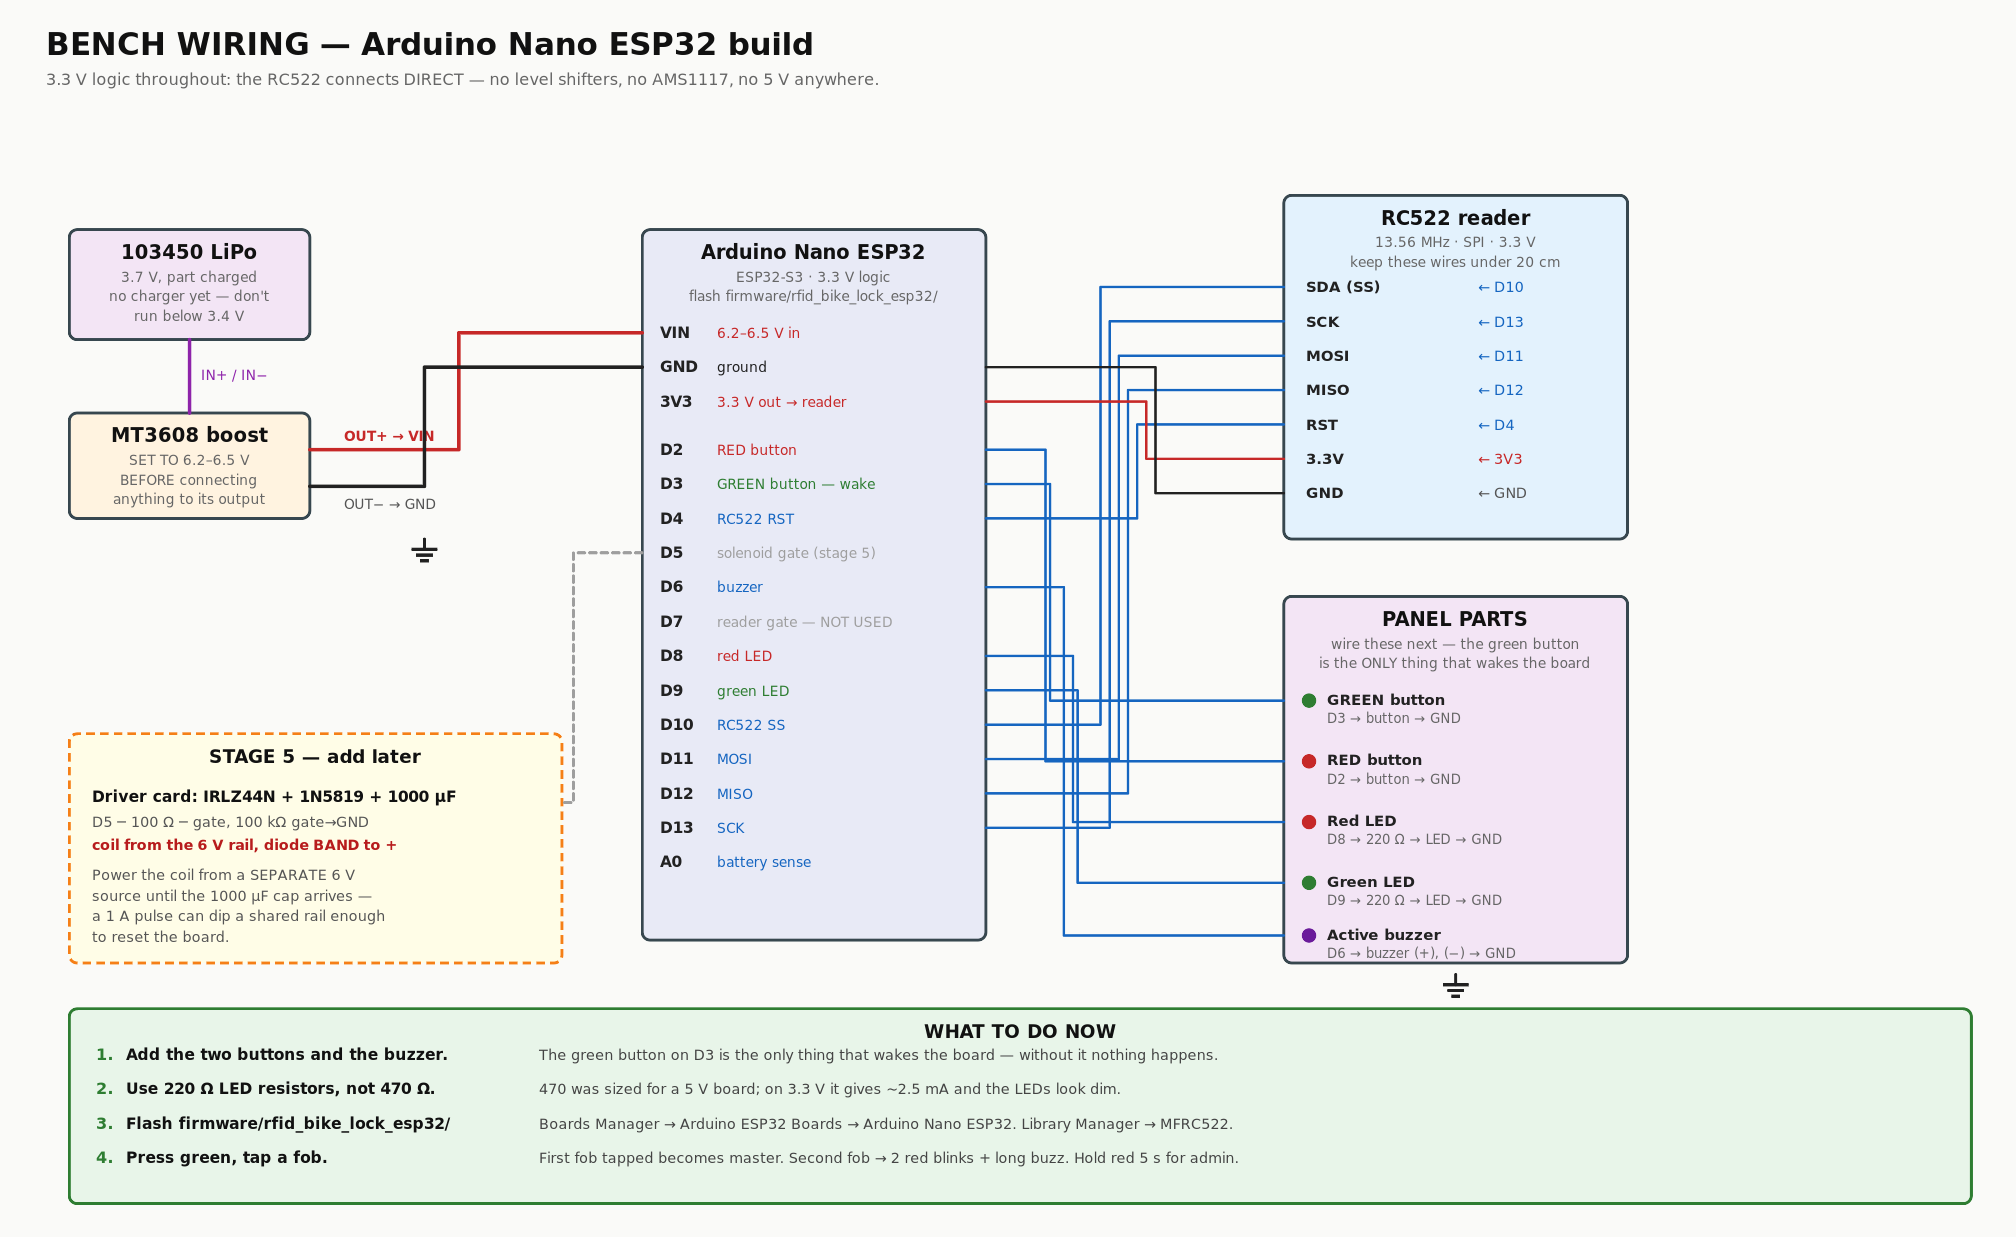
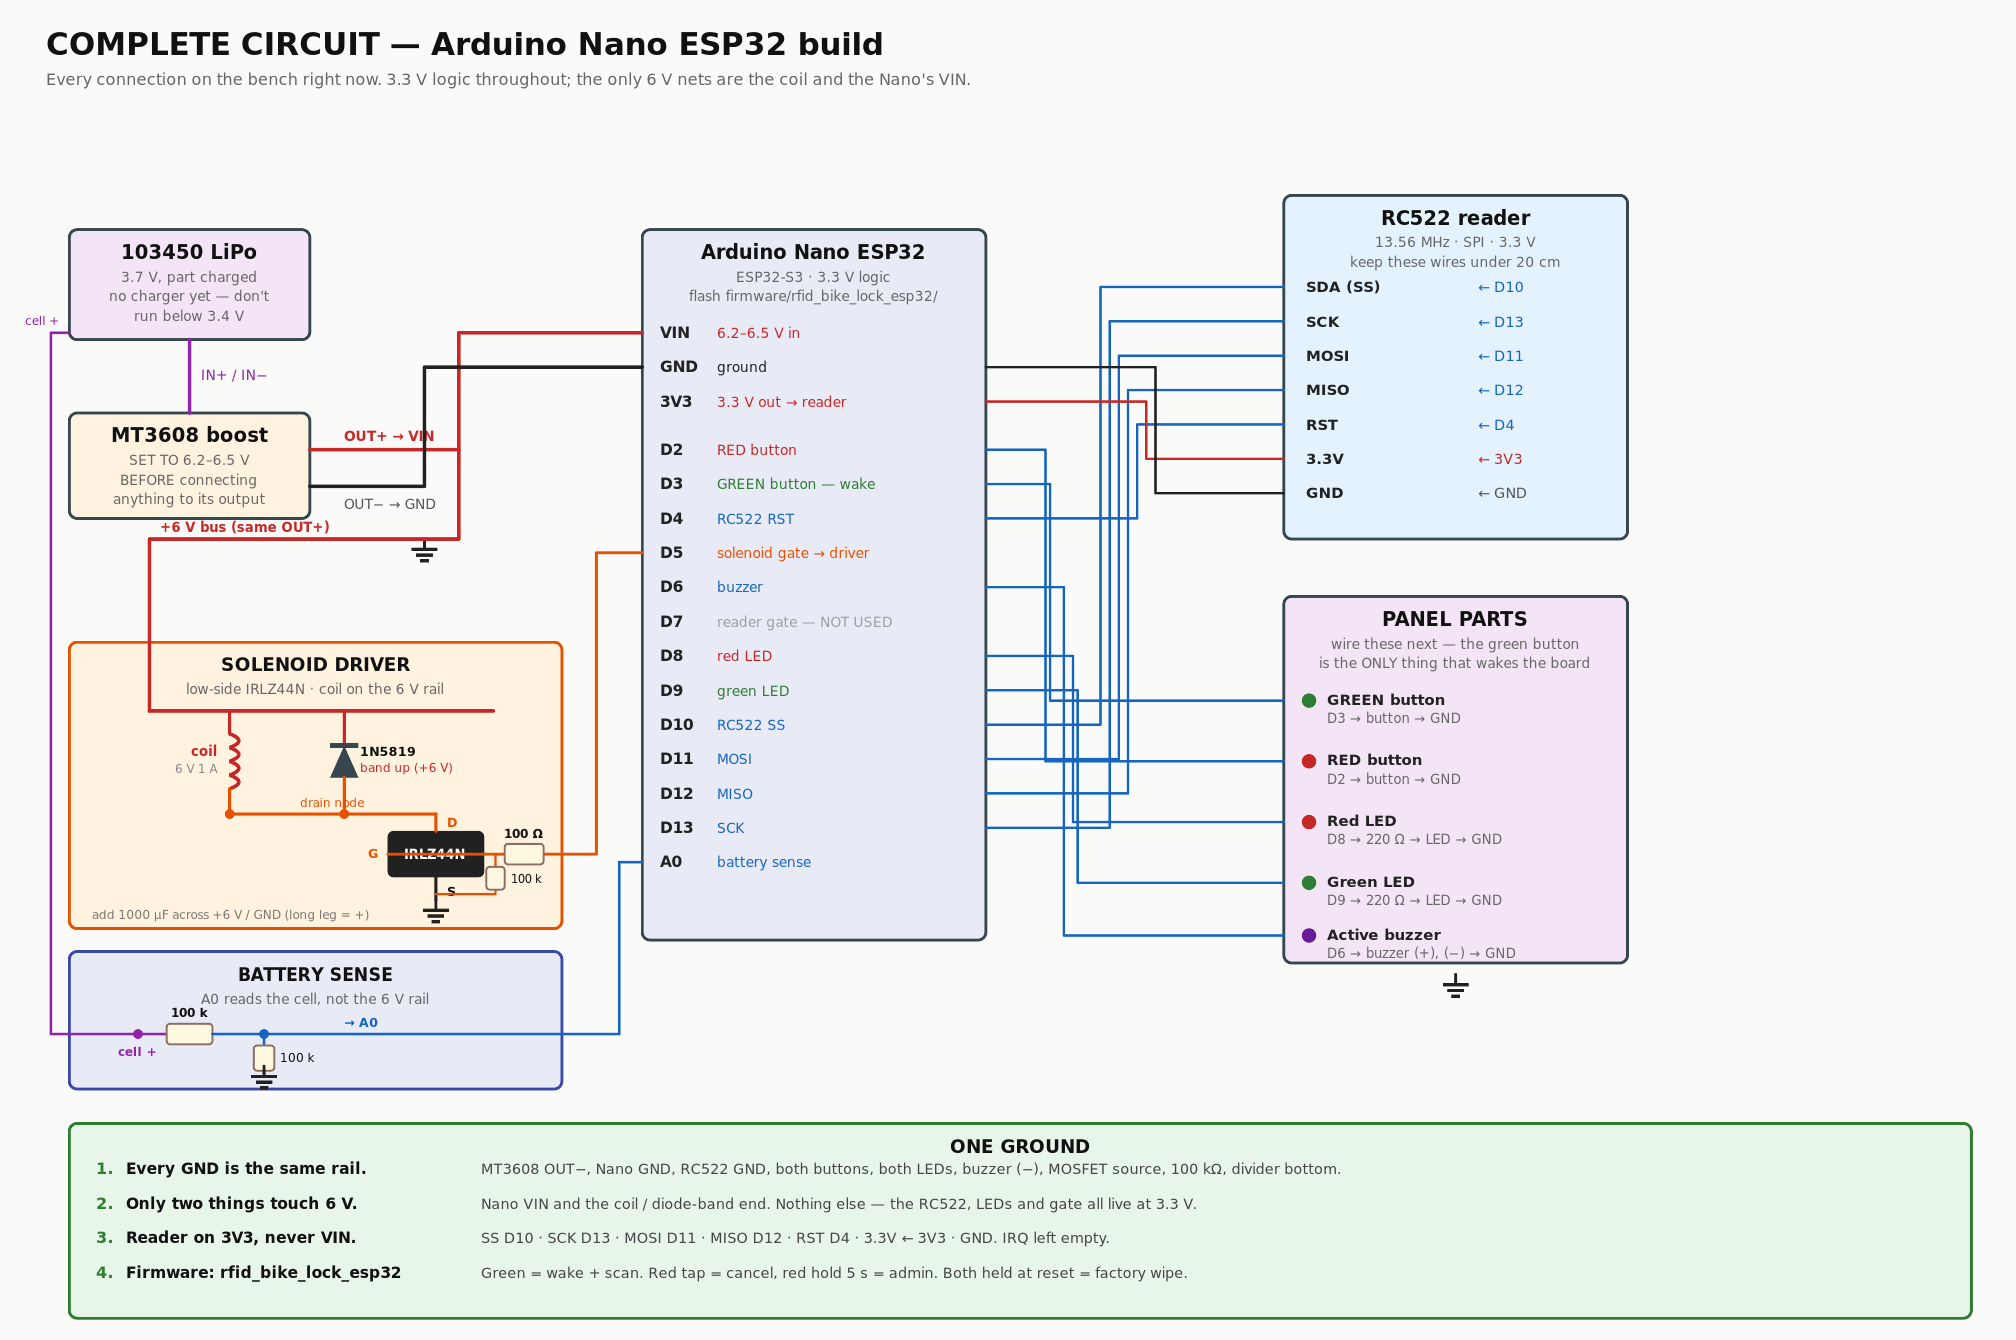
Update bench wiring to the complete current circuit
Solenoid driver drawn as fitted, battery-sense divider on A0 added,
notes replaced with the single-ground checklist.

Claude-Session: https://claude.ai/code/session_01Rpp78CApKpVmXNegMaNBox

diff --git a/cad/bench_wiring_esp32.py b/cad/bench_wiring_esp32.py
@@ -4,7 +4,7 @@ The bench wiring for the Arduino Nano ESP32 build: exactly what to connect now, 
 gets added at stage 5. 3.3 V logic throughout, so the RC522 goes on direct.
 """
 import os
-W, H = 1760, 1080
+W, H = 1760, 1170
 BG, RAIL, CELL, BLK, BLU, GRN, RED2, DIM = "#FAFAF8", "#C62828", "#8E24AA", "#212121", "#1565C0", "#2E7D32", "#C62828", "#9E9E9E"
 out = []; A = out.append
 
@@ -31,8 +31,8 @@ def gnd(x, y):
 
 A(f'<svg xmlns="http://www.w3.org/2000/svg" width="{W}" height="{H}" viewBox="0 0 {W} {H}">')
 A(f'<rect width="{W}" height="{H}" fill="{BG}"/>')
-txt(40, 48, "BENCH WIRING — Arduino Nano ESP32 build", 27, "#111", weight="bold")
-txt(40, 74, "3.3 V logic throughout: the RC522 connects DIRECT — no level shifters, no AMS1117, no 5 V anywhere.", 14, "#666")
+txt(40, 48, "COMPLETE CIRCUIT — Arduino Nano ESP32 build", 27, "#111", weight="bold")
+txt(40, 74, "Every connection on the bench right now. 3.3 V logic throughout; the only 6 V nets are the coil and the Nano's VIN.", 14, "#666")
 
 # ---------------- Nano ----------------
 NX, NY, NW, NH = 560, 200, 300, 620
@@ -41,7 +41,7 @@ PIN = {}
 rows = [("VIN", "6.2–6.5 V in", RAIL), ("GND", "ground", BLK), ("3V3", "3.3 V out → reader", RAIL),
         ("", "", None),
         ("D2", "RED button", RED2), ("D3", "GREEN button — wake", GRN), ("D4", "RC522 RST", BLU),
-        ("D5", "solenoid gate (stage 5)", DIM), ("D6", "buzzer", BLU), ("D7", "reader gate — NOT USED", DIM),
+        ("D5", "solenoid gate → driver", "#E65100"), ("D6", "buzzer", BLU), ("D7", "reader gate — NOT USED", DIM),
         ("D8", "red LED", RED2), ("D9", "green LED", GRN), ("D10", "RC522 SS", BLU),
         ("D11", "MOSI", BLU), ("D12", "MISO", BLU), ("D13", "SCK", BLU), ("A0", "battery sense", BLU)]
 y = NY + 90
@@ -91,29 +91,82 @@ for nm, yy in (("D3", 611), ("D2", 664), ("D8", 717), ("D9", 770), ("D6", 816)):
     wire([(NX + NW, PIN[nm]), (900 + list(PIN).index(nm) * 4, PIN[nm]), (900 + list(PIN).index(nm) * 4, yy), (1120, yy)], BLU, 2.0)
 gnd(1270, 850)
 
-# ---------------- stage 5 (later) ----------------
-box(60, 640, 430, 200, "STAGE 5 — add later", "", "#FFFDE7", "#F57F17", 16, dash="7 5")
-txt(80, 700, "Driver card: IRLZ44N + 1N5819 + 1000 µF", 13.5, "#111", weight="bold")
-txt(80, 722, "D5 ─ 100 Ω ─ gate, 100 kΩ gate→GND", 12.5, "#555")
-txt(80, 742, "coil from the 6 V rail, diode BAND to +", 12.5, "#B71C1C", weight="bold")
-txt(80, 768, "Power the coil from a SEPARATE 6 V", 12.5, "#555")
-txt(80, 786, "source until the 1000 µF cap arrives —", 12.5, "#555")
-txt(80, 804, "a 1 A pulse can dip a shared rail enough", 12.5, "#555")
-txt(80, 822, "to reset the board.", 12.5, "#555")
-wire([(NX, PIN["D5"]), (500, PIN["D5"]), (500, 700), (490, 700)], DIM, 2.2, dash="6 4")
+# ---------------- driver stage ----------------
+ORG = "#E65100"
+DY = 560
+box(60, DY, 430, 250, "SOLENOID DRIVER", "low-side IRLZ44N · coil on the 6 V rail", "#FFF3E0", ORG, 16)
+# +6V bus from MT3608 OUT+
+wire([(400, 392), (400, 470), (130, 470), (130, DY + 60)], RAIL, 3)
+txt(140, 464, "+6 V bus (same OUT+)", 11.5, RAIL, weight="bold")
+wire([(130, DY + 60), (430, DY + 60)], RAIL, 3)
+# coil
+wire([(200, DY + 60), (200, DY + 80)], RAIL, 2.6)
+for k in range(4):
+    A(f'<path d="M 200 {DY+80+k*12} q 16 6 0 12" fill="none" stroke="{RAIL}" stroke-width="2.6"/>')
+wire([(200, DY + 128), (200, DY + 150)], ORG, 2.6)
+txt(190, DY + 100, "coil", 11.5, RAIL, "end", "bold")
+txt(190, DY + 115, "6 V 1 A", 10.5, "#888", "end")
+# diode
+wire([(300, DY + 60), (300, DY + 90)], RAIL, 2.6)
+A(f'<line x1="288" y1="{DY+90}" x2="312" y2="{DY+90}" stroke="#37474F" stroke-width="4"/>')
+A(f'<path d="M 288 {DY+118} L 312 {DY+118} L 300 {DY+91} Z" fill="#37474F"/>')
+wire([(300, DY + 118), (300, DY + 150)], ORG, 2.6)
+txt(314, DY + 100, "1N5819", 11, "#111", weight="bold")
+txt(314, DY + 114, "band up (+6 V)", 10.5, RED2)
+# drain node
+wire([(200, DY + 150), (380, DY + 150)], ORG, 2.6)
+A(f'<circle cx="200" cy="{DY+150}" r="4" fill="{ORG}"/>'); A(f'<circle cx="300" cy="{DY+150}" r="4" fill="{ORG}"/>')
+txt(290, DY + 144, "drain node", 10.5, ORG, "middle")
+# mosfet
+A(f'<rect x="{380-42}" y="{DY+165}" width="84" height="40" rx="5" fill="#212121"/>')
+txt(380, DY + 190, "IRLZ44N", 11.5, "#FFF", "middle", "bold")
+wire([(380, DY + 150), (380, DY + 165)], ORG, 2.6)
+txt(390, DY + 162, "D", 11, ORG, weight="bold")
+wire([(380, DY + 205), (380, DY + 225)], BLK, 2.6)
+txt(390, DY + 222, "S", 11, "#111", weight="bold")
+gnd(380, DY + 225)
+# gate
+GY = DY + 185
+wire([(NX, PIN["D5"]), (520, PIN["D5"]), (520, GY), (338, GY)], ORG, 2.4)
+A(f'<rect x="440" y="{GY-9}" width="34" height="18" rx="3" fill="#FFF8E1" stroke="#8D6E63" stroke-width="1.6"/>')
+txt(457, GY - 14, "100 Ω", 10.5, "#111", "middle", "bold")
+txt(330, GY + 4, "G", 11, ORG, "end", "bold")
+wire([(432, GY), (432, DY + 220), (380, DY + 220)], ORG, 1.8)
+A(f'<rect x="{432-8}" y="{DY+196}" width="16" height="20" rx="3" fill="#FFF8E1" stroke="#8D6E63" stroke-width="1.6"/>')
+txt(446, DY + 211, "100 k", 10, "#111")
+txt(80, DY + 242, "add 1000 µF across +6 V / GND (long leg = +)", 10.5, "#777")
+
+# ---------------- battery sense ----------------
+BY = 830
+box(60, BY, 430, 120, "BATTERY SENSE", "A0 reads the cell, not the 6 V rail", "#E8EAF6", "#3949AB", 15)
+wire([(60, 290), (44, 290), (44, BY + 72), (120, BY + 72)], CELL, 2.2)
+txt(52, 284, "cell +", 10.5, CELL, "end")
+txt(120, BY + 92, "cell +", 10.5, CELL, "middle", "bold")
+A(f'<circle cx="120" cy="{BY+72}" r="4" fill="{CELL}"/>')
+wire([(120, BY + 72), (145, BY + 72)], CELL, 2.2)
+A(f'<rect x="145" y="{BY+63}" width="40" height="18" rx="3" fill="#FFF8E1" stroke="#8D6E63" stroke-width="1.6"/>')
+txt(165, BY + 58, "100 k", 10.5, "#111", "middle", "bold")
+wire([(185, BY + 72), (540, BY + 72), (540, PIN["A0"]), (NX, PIN["A0"])], BLU, 2.2)
+A(f'<circle cx="230" cy="{BY+72}" r="4" fill="{BLU}"/>')
+txt(300, BY + 66, "→ A0", 11, BLU, weight="bold")
+wire([(230, BY + 72), (230, BY + 82)], BLU, 2.2)
+A(f'<rect x="{230-9}" y="{BY+82}" width="18" height="22" rx="3" fill="#FFF8E1" stroke="#8D6E63" stroke-width="1.6"/>')
+txt(244, BY + 97, "100 k", 10.5, "#111")
+wire([(230, BY + 104), (230, BY + 108)], BLK, 2.2)
+gnd(230, BY + 100)
 
 # ---------------- notes ----------------
-box(60, 880, 1660, 170, "WHAT TO DO NOW", "", "#E8F5E9", "#2E7D32", 16)
+box(60, 980, 1660, 170, "ONE GROUND", "", "#E8F5E9", "#2E7D32", 16)
 notes = [
- ("1.", "Add the two buttons and the buzzer.", "The green button on D3 is the only thing that wakes the board — without it nothing happens."),
- ("2.", "Use 220 Ω LED resistors, not 470 Ω.", "470 was sized for a 5 V board; on 3.3 V it gives ~2.5 mA and the LEDs look dim."),
- ("3.", "Flash firmware/rfid_bike_lock_esp32/", "Boards Manager → Arduino ESP32 Boards → Arduino Nano ESP32. Library Manager → MFRC522."),
- ("4.", "Press green, tap a fob.", "First fob tapped becomes master. Second fob → 2 red blinks + long buzz. Hold red 5 s for admin."),
+ ("1.", "Every GND is the same rail.", "MT3608 OUT−, Nano GND, RC522 GND, both buttons, both LEDs, buzzer (−), MOSFET source, 100 kΩ, divider bottom."),
+ ("2.", "Only two things touch 6 V.", "Nano VIN and the coil / diode-band end. Nothing else — the RC522, LEDs and gate all live at 3.3 V."),
+ ("3.", "Reader on 3V3, never VIN.", "SS D10 · SCK D13 · MOSI D11 · MISO D12 · RST D4 · 3.3V ← 3V3 · GND. IRQ left empty."),
+ ("4.", "Firmware: rfid_bike_lock_esp32", "Green = wake + scan. Red tap = cancel, red hold 5 s = admin. Both held at reset = factory wipe."),
 ]
 for i, (n, a_, b_) in enumerate(notes):
-    txt(84, 925 + i * 30, n, 14, "#2E7D32", weight="bold")
-    txt(110, 925 + i * 30, a_, 13.5, "#111", weight="bold")
-    txt(470, 925 + i * 30, b_, 12.5, "#444")
+    txt(84, 1025 + i * 30, n, 14, "#2E7D32", weight="bold")
+    txt(110, 1025 + i * 30, a_, 13.5, "#111", weight="bold")
+    txt(420, 1025 + i * 30, b_, 12.5, "#444")
 A('</svg>')
 os.makedirs("renders/electrical", exist_ok=True)
 open("renders/electrical/bench_wiring_esp32.svg", "w").write("\n".join(out))
